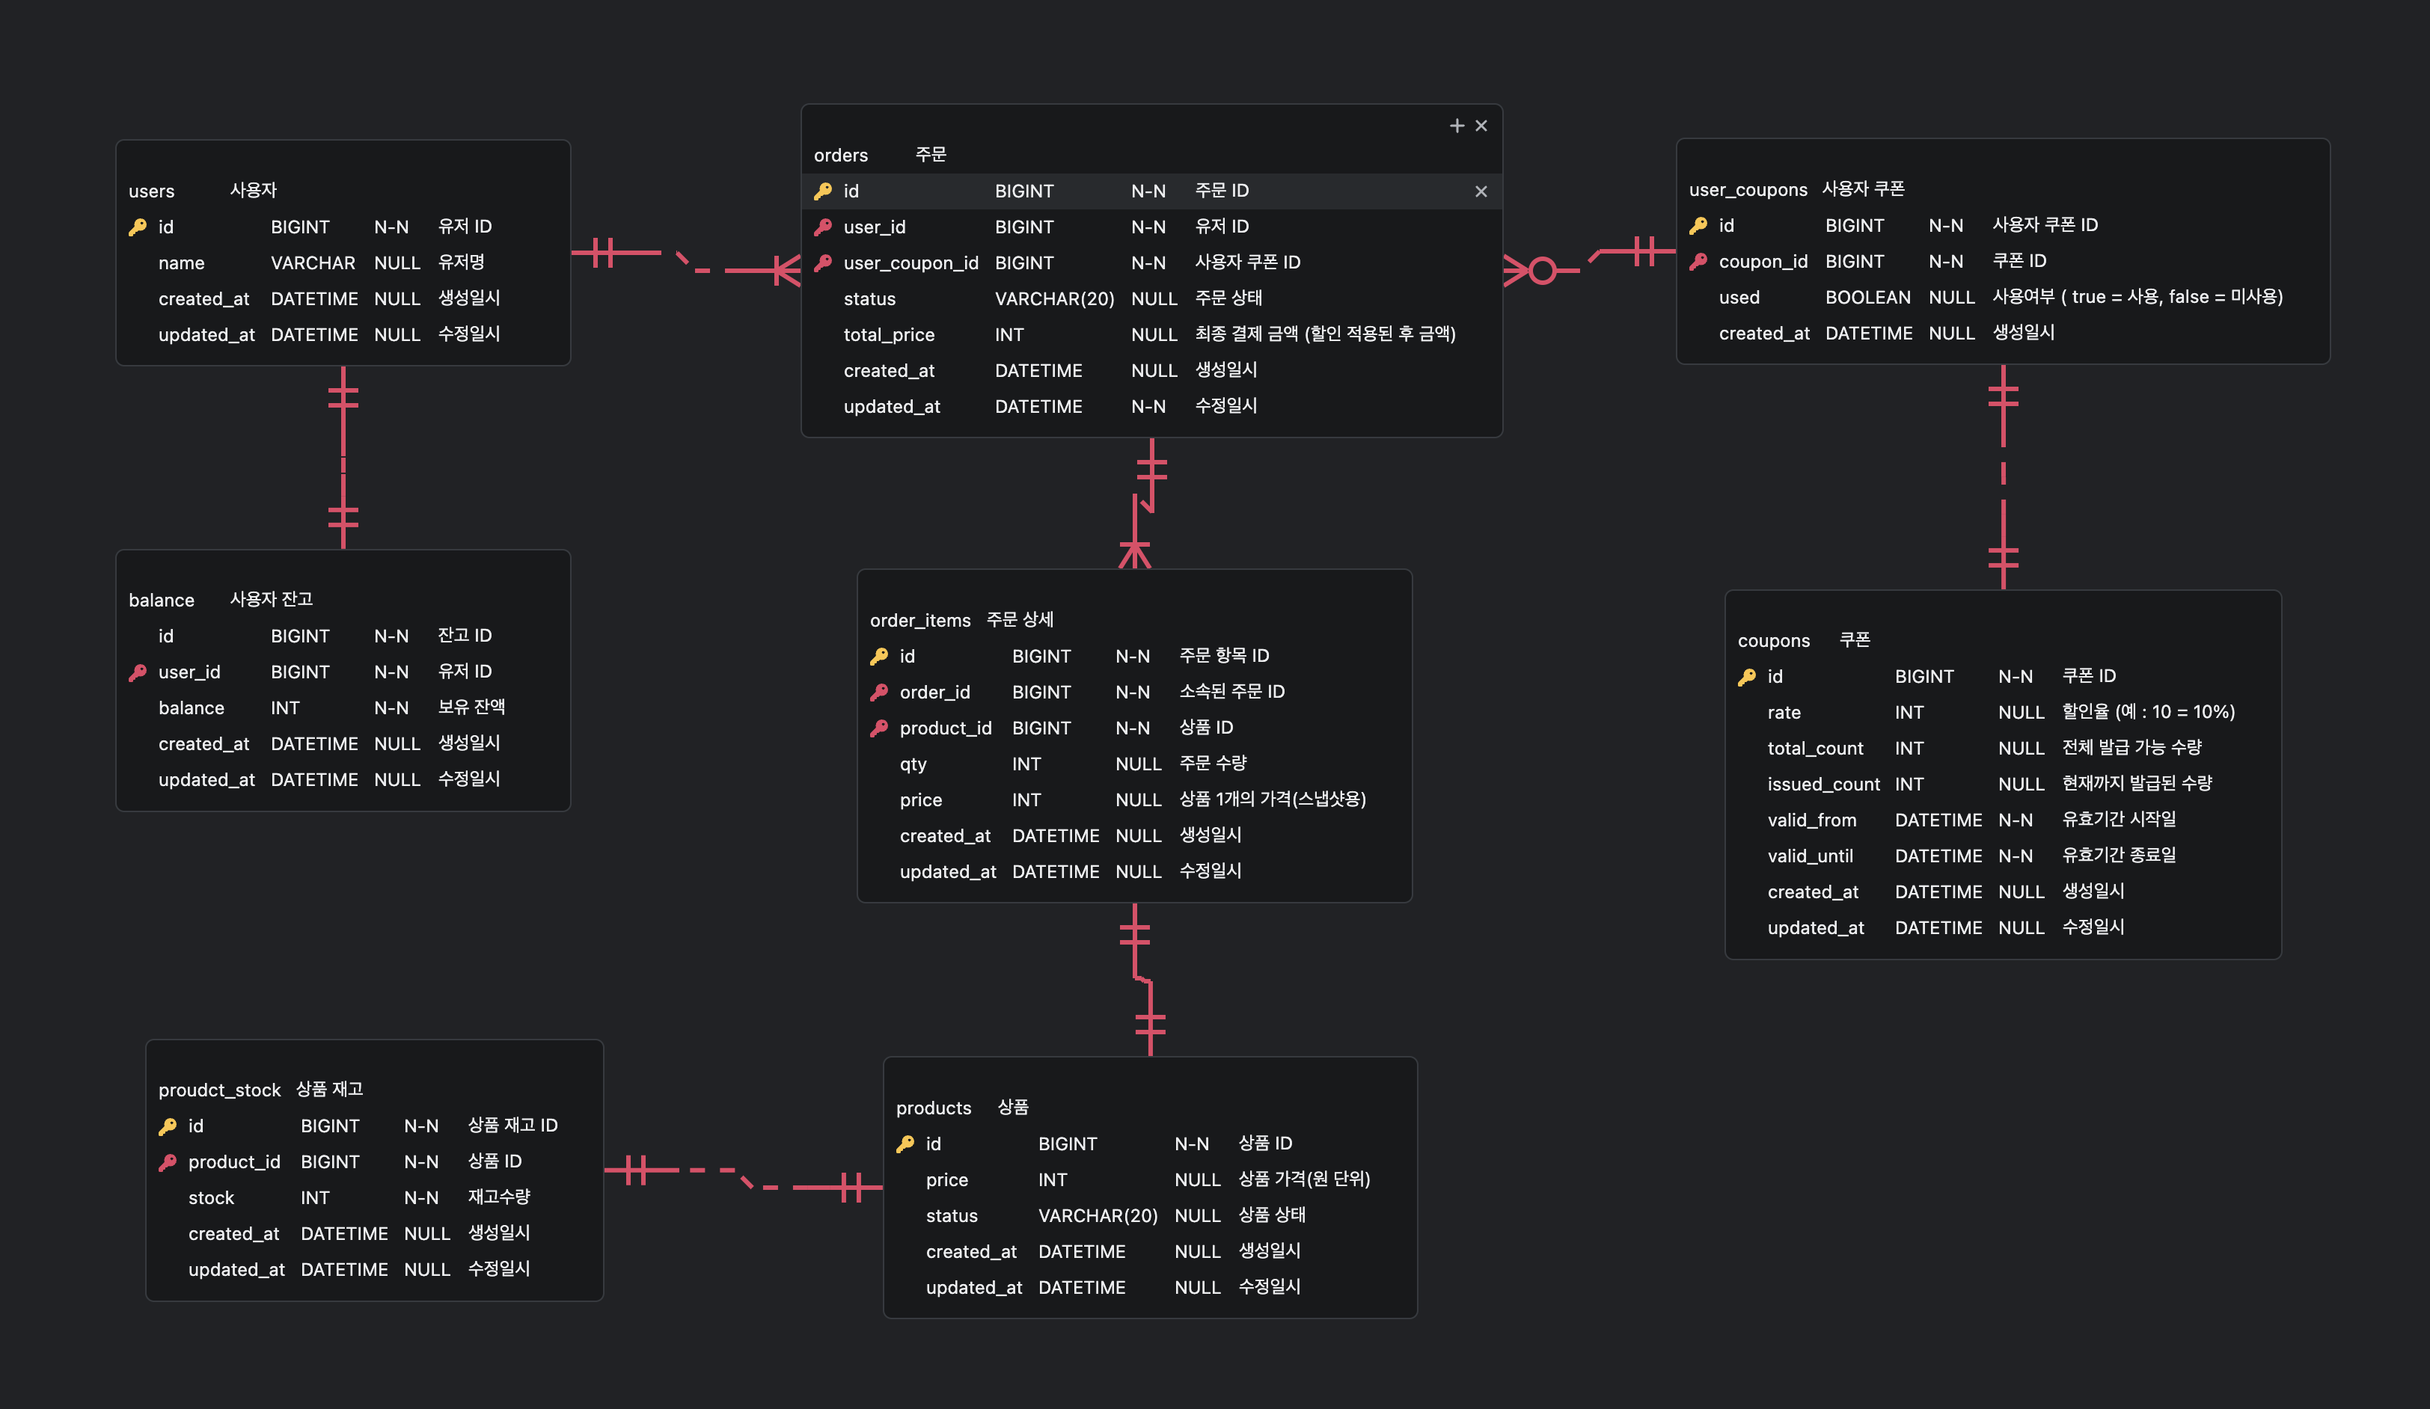
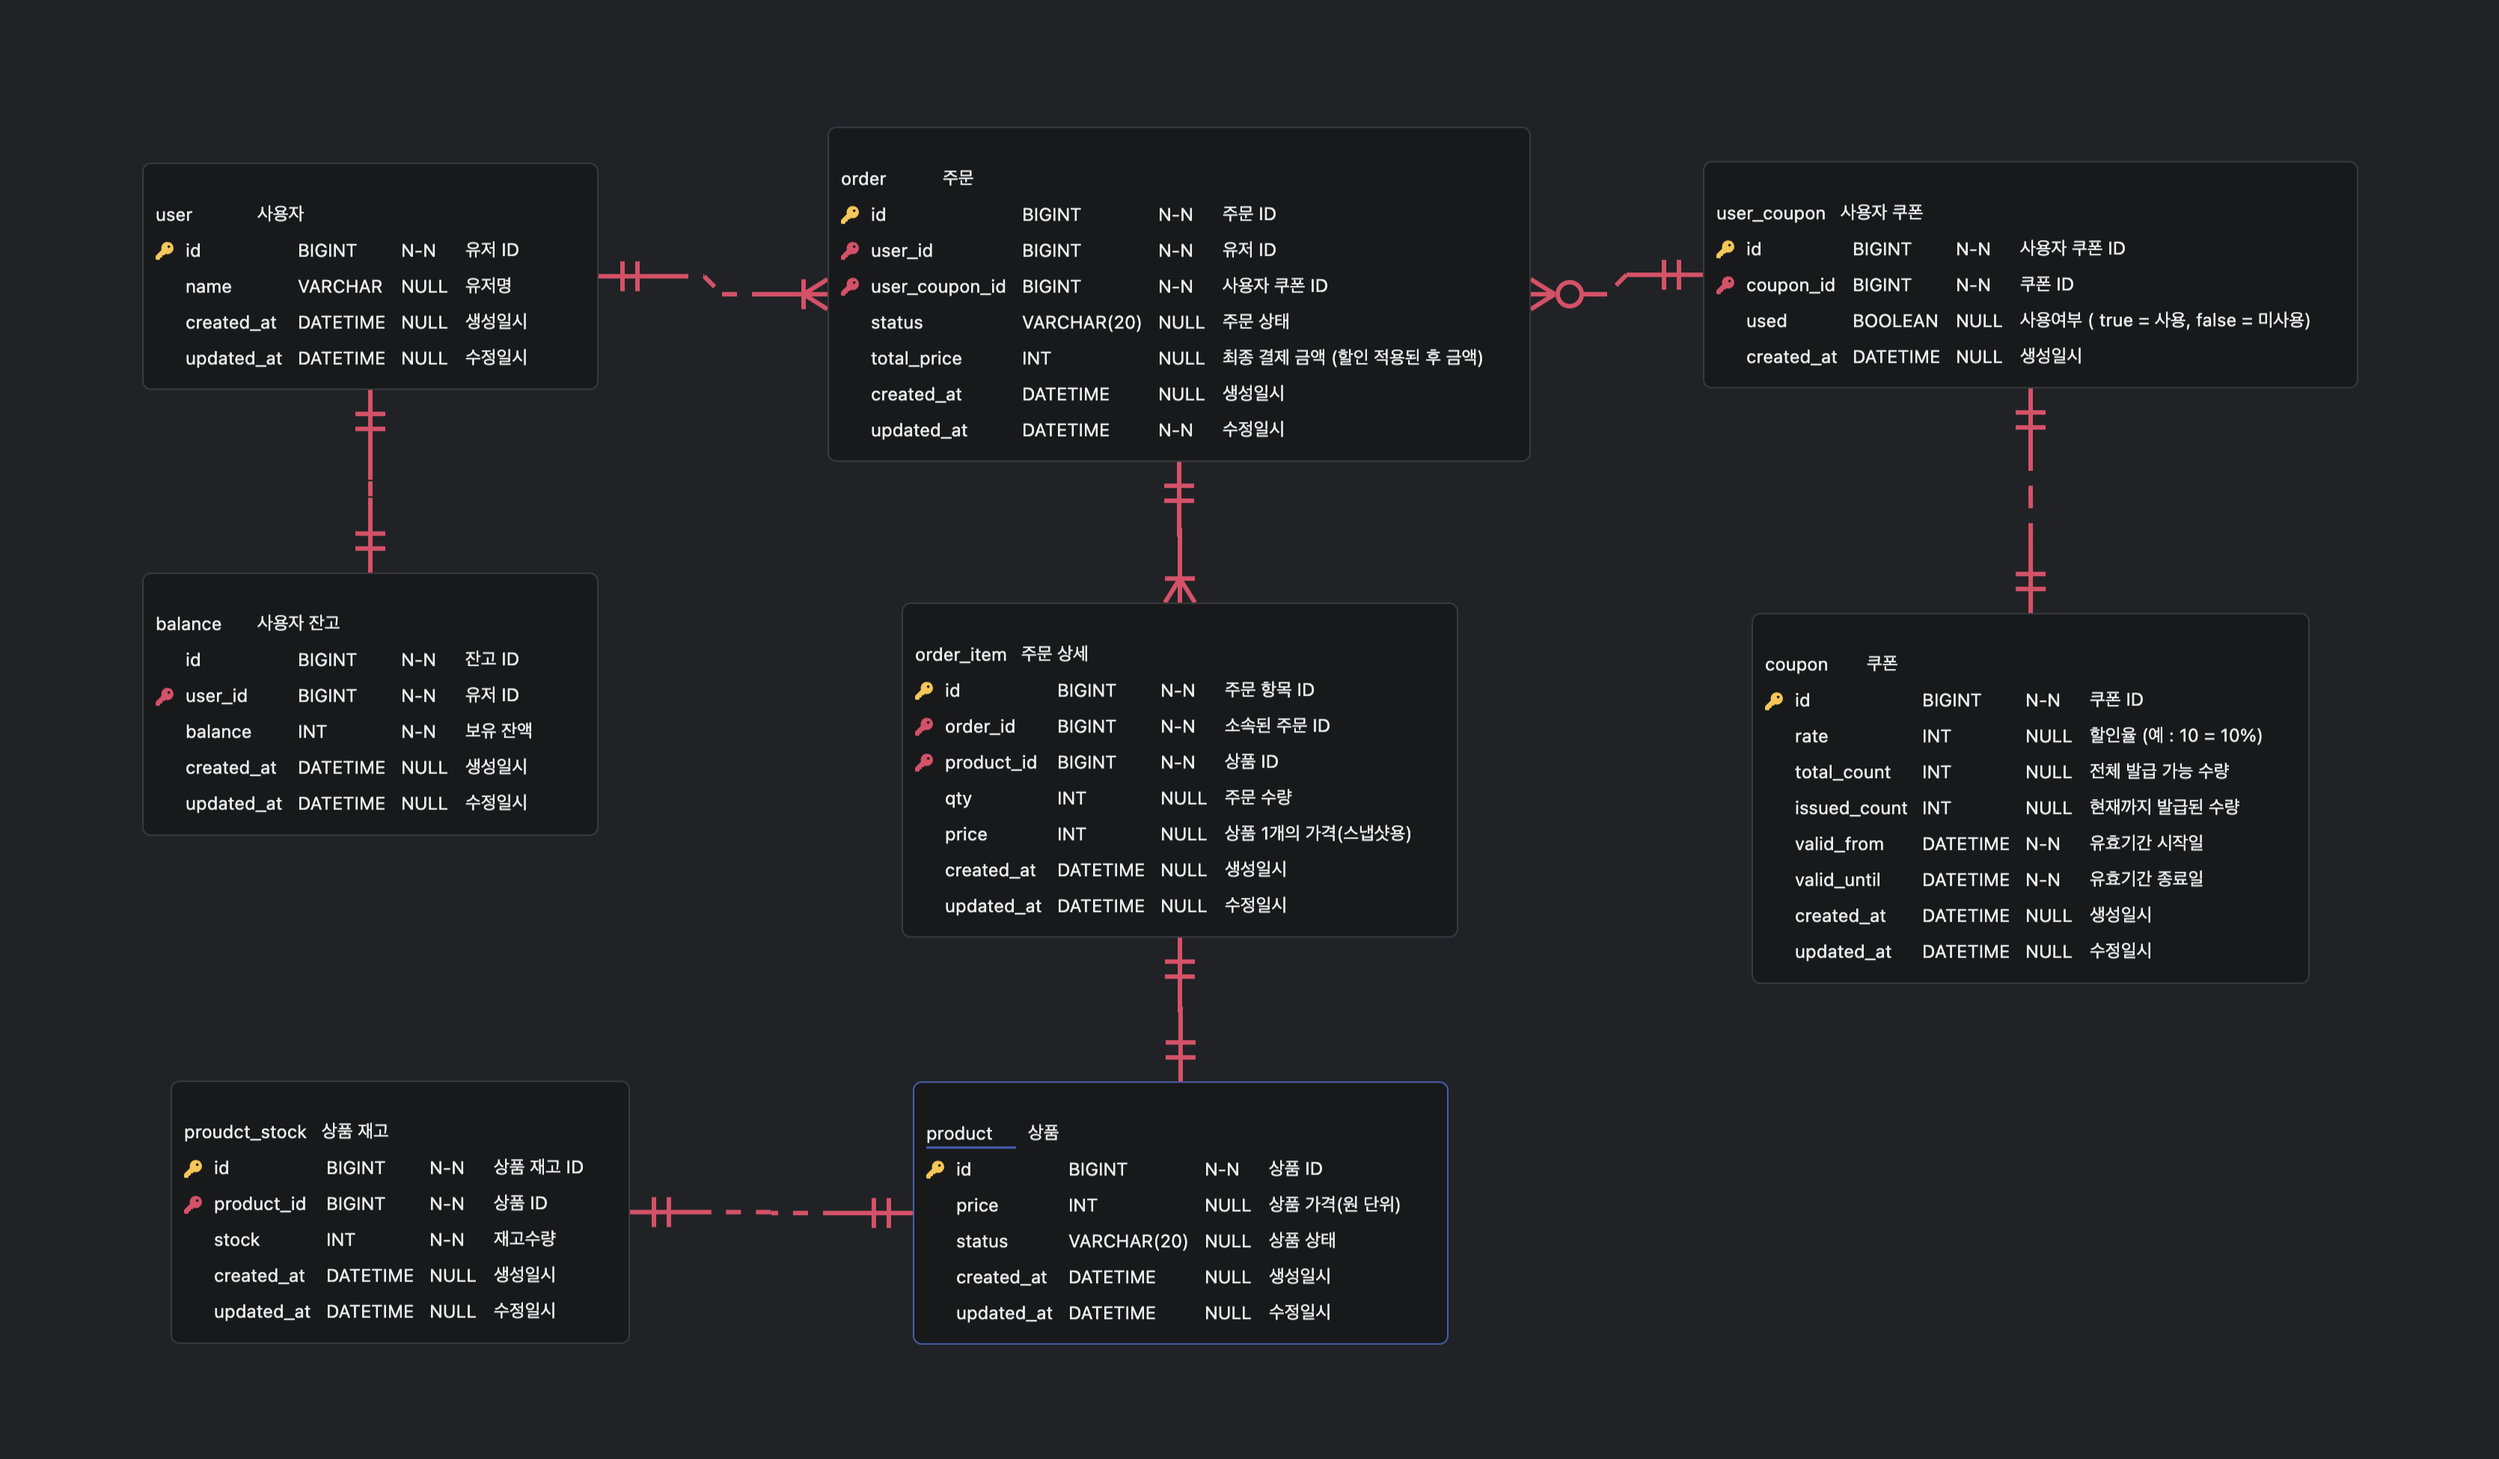
docs : erd 수정

diff --git a/docs/erd.md b/docs/erd.md
@@ -12,12 +12,12 @@
 
 ### 테이블 요약
 | 테이블명        | 설명                             |
-|----------------|----------------------------------|
-| `users`        | 서비스 사용자 정보를 저장         |
-| `balance`      | 사용자별 충전 잔액 정보를 저장     |
-| `products`     | 판매 상품의 가격 및 상태를 저장    |
+|-------------|----------------------------------|
+| `users`     | 서비스 사용자 정보를 저장         |
+| `balance`   | 사용자별 충전 잔액 정보를 저장     |
+| `product`   | 판매 상품의 가격 및 상태를 저장    |
 | `proudct_stock`| 각 상품의 현재 재고 수량을 관리    |
-| `orders`       | 주문 마스터 정보 (주문 금액, 상태 등) |
-| `order_items`  | 주문에 포함된 개별 상품 정보       |
-| `coupons`      | 이벤트/할인 쿠폰 정의 정보         |
-| `user_coupons` | 사용자에게 발급된 쿠폰 내역을 관리 |
+| `order`     | 주문 마스터 정보 (주문 금액, 상태 등) |
+| `order_item` | 주문에 포함된 개별 상품 정보       |
+| `coupon`    | 이벤트/할인 쿠폰 정의 정보         |
+| `user_coupon` | 사용자에게 발급된 쿠폰 내역을 관리 |
